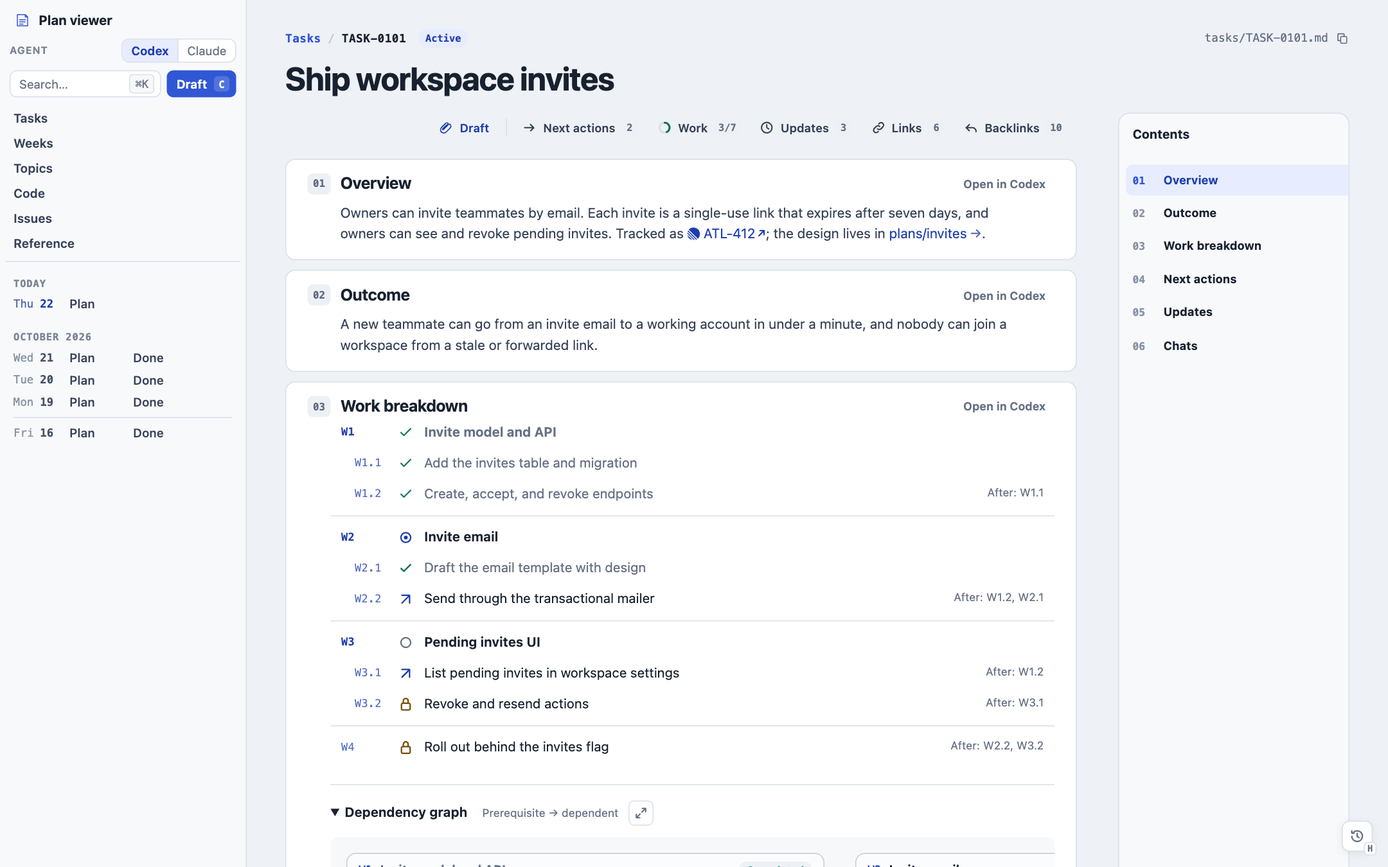
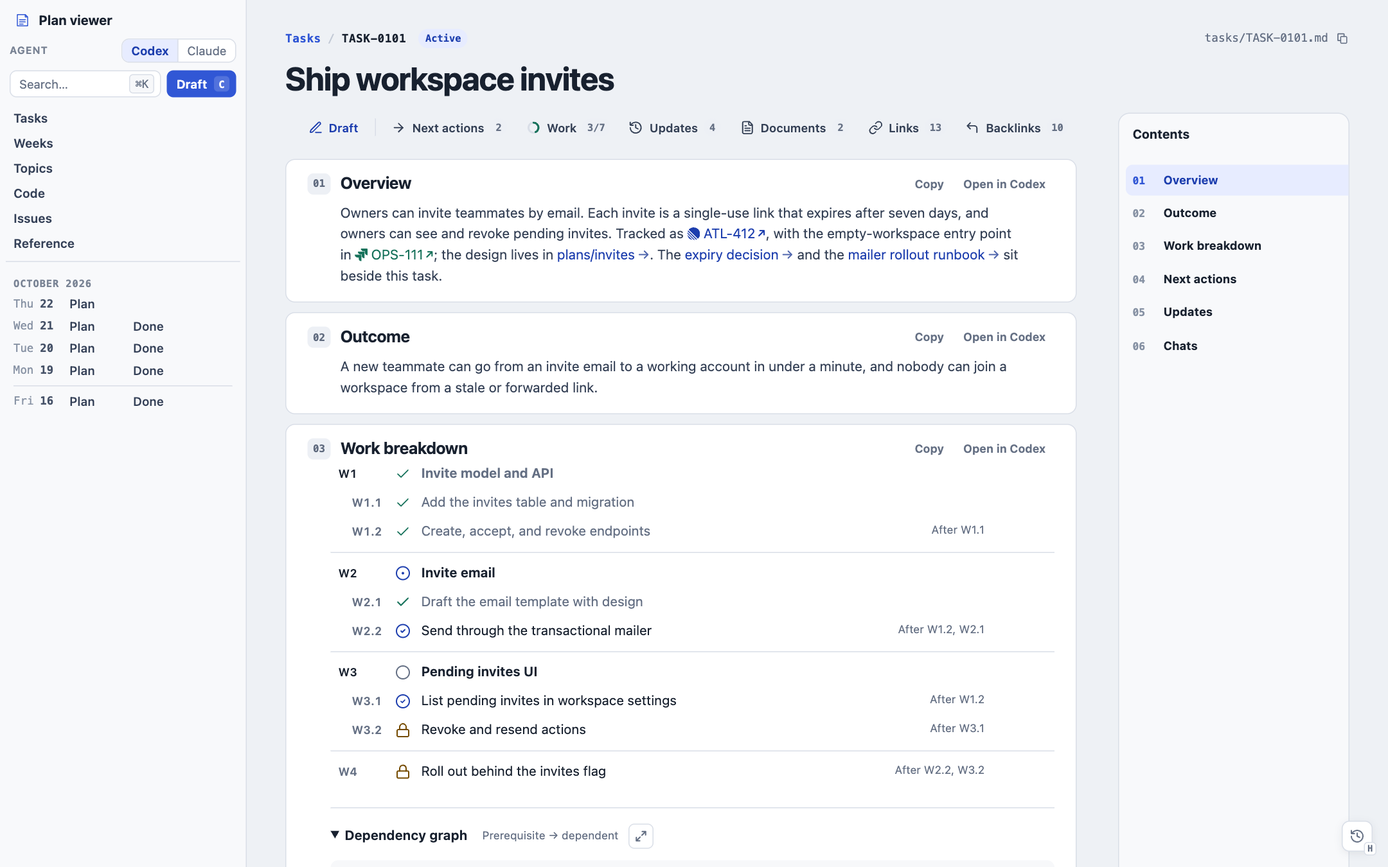
Next actions: one quiet row grammar everywhere; waiting actions still open their draft
Next steps, Next actions, the Tasks inspector and the work tree share one row:
ID, status icon (check ready, lock waiting), title with prompt preview, and a
Draft hint on hover. Blocked actions are no longer disabled: the row and the
draft dialog say what they wait on (After W3.1) and the server no longer
rejects them.

diff --git a/public/styles.css b/public/styles.css
@@ -443,7 +443,6 @@ button.task-list-id:hover { text-decoration: underline; }
 .task-detail-section { margin-top: 16px; padding-top: 12px; border-top: 1px solid var(--line); }
 .task-detail h4 { display: flex; justify-content: space-between; margin: 0 0 8px; color: var(--ink); font-size: .78rem; font-weight: 650; }
 .task-detail h4 span { color: var(--quiet-text); font-weight: 600; font-variant-numeric: tabular-nums; }
-.task-detail .action-card { padding-inline: 8px; margin-inline: -8px; width: calc(100% + 16px); }
 .task-detail-progress { display: grid; gap: 6px; margin: 0 0 6px; color: var(--muted); font-size: .72rem; }
 .task-detail-progress span { height: 4px; border-radius: 999px; background: linear-gradient(90deg, var(--success) calc(var(--done) * 100%), var(--quiet-field) 0); }
 .ref-group + .ref-group { margin-top: 10px; }
@@ -461,14 +460,10 @@ button.task-list-id:hover { text-decoration: underline; }
 .task-detail .ref-chip::after, .task-detail .ref-row::after { content: none; }
 .task-detail-empty { margin: 0; color: var(--muted); font-size: .8rem; }
 /* One quiet style in the detail pane: ink text, muted IDs, blue only on hover and the Open button. */
-.task-detail .action-card { gap: 10px; border: 0; padding-block: 5px; }
-.task-detail .action-card:hover:not(:disabled), .task-detail .action-card[aria-expanded="true"] { background: var(--quiet-field); }
-.task-detail .action-title { gap: 8px; font-size: .8rem; line-height: 1.4; }
-.task-detail .action-title code, .task-detail .ref-row code { color: var(--quiet-text); font-weight: 600; }
+.task-detail .action-card { --label-width: 2.4rem; margin-inline: -8px; width: calc(100% + 16px); }
+.task-detail .action-title { font-size: .8rem; }
 .task-detail .action-note { display: none; }
-.task-detail .action-card:disabled .action-title { color: var(--muted); }
-.task-detail .action-go { font-size: .72rem; }
-.task-detail .action-card:disabled .action-go { color: var(--quiet-text); font-weight: 600; }
+.task-detail .ref-row code { color: var(--quiet-text); font-weight: 600; }
 .task-detail-progress { color: var(--quiet-text); }
 .task-detail-progress span { height: 3px; }
 .task-detail .task-detail-more { margin-top: 6px; color: var(--muted); font-size: .74rem; font-weight: 600; text-decoration: none; }
@@ -661,42 +656,45 @@ button.task-list-id:hover { text-decoration: underline; }
 /* Executable next actions and the compact task map. */
 .action-list { display: grid; }
 .action-row { scroll-margin-top: 64px; }
-.action-card { width: 100%; display: grid; grid-template-columns: minmax(0, 1fr) auto; align-items: center; gap: 18px; margin: 0; border: 1px solid transparent; border-radius: 7px; background: transparent; padding: 6px 10px; color: var(--ink); font: inherit; text-align: left; cursor: pointer; }
-.action-card:hover:not(:disabled), .action-card[aria-expanded="true"] { border-color: var(--action-muted); background: #f8f9ff; }
-.action-card:disabled { cursor: default; }
-.action-text { min-width: 0; display: grid; gap: 4px; }
-.action-title { display: flex; align-items: baseline; gap: 10px; font-size: .86rem; font-weight: 400; line-height: 1.45; overflow-wrap: anywhere; }
-.action-title code, .daily-action-task code, .work-row code, .work-node code, .work-group code { flex: none; color: var(--action-ink); font: 700 .7rem/1.2 ui-monospace, SFMono-Regular, Menlo, monospace; letter-spacing: .02em; }
+/* One row grammar for next actions, the day's next steps and their task headers: label · status icon · text · aside. */
+.action-card, .daily-action-task { --label-width: 3.2rem; display: grid; grid-template-columns: var(--label-width) 18px minmax(0, 1fr) auto; align-items: start; column-gap: 10px; }
+.action-card { width: 100%; margin: 0; border: 0; border-radius: 6px; background: transparent; padding: 5px 8px; color: var(--ink); font: inherit; text-align: left; cursor: pointer; transition: background-color 140ms ease-out; }
+.action-card:hover, .action-card[aria-expanded="true"] { background: var(--quiet-field); }
+.action-label { color: var(--muted); font: 600 .74rem/20px ui-sans-serif, -apple-system, BlinkMacSystemFont, sans-serif; font-variant-numeric: tabular-nums; white-space: nowrap; }
+.action-status { display: grid; place-items: center; height: 20px; color: var(--action-ink); }
+.action-status svg, .action-go svg { width: 15px; height: 15px; fill: none; stroke: currentColor; stroke-width: 2; stroke-linecap: round; stroke-linejoin: round; }
+.action-status.is-waiting { color: var(--status-waiting-ink); }
+.action-text { min-width: 0; display: grid; gap: 1px; }
+.action-title { font-size: .86rem; line-height: 20px; overflow-wrap: anywhere; }
 .action-note { display: -webkit-box; -webkit-line-clamp: 1; -webkit-box-orient: vertical; overflow: hidden; color: var(--muted); font-size: .78rem; line-height: 1.5; }
-.action-note.is-blocked { color: var(--status-waiting-ink); }
-.action-go { flex: none; color: var(--action-ink); font-size: .76rem; font-weight: 680; white-space: nowrap; opacity: 0; transition: opacity 120ms ease-out; }
-.action-card:focus-visible .action-go, .action-card:hover .action-go, .action-card[aria-expanded="true"] .action-go, .work-row.is-actionable:hover .action-go { opacity: 1; }
-.action-card:disabled .action-go { color: var(--muted); opacity: 1; }
-.work-row .action-go { opacity: .6; }
+.action-waiting { color: var(--status-waiting-ink); font-weight: 600; white-space: nowrap; }
+.action-go { display: inline-flex; align-items: center; gap: 4px; height: 20px; color: var(--action-ink); font-size: .74rem; font-weight: 650; white-space: nowrap; opacity: 0; transition: opacity 140ms ease-out; }
+.action-go svg { width: 13px; height: 13px; }
+:is(.action-card, .work-row.is-actionable):is(:hover, :focus-visible, [aria-expanded="true"]) .action-go { opacity: 1; }
 @media (hover: none) { .action-go { opacity: 1; } }
 .action-source { display: block; margin: 6px 0; color: var(--muted); font-size: .76rem; line-height: 1.5; overflow-wrap: anywhere; }
 .action-empty { color: var(--muted); font-size: .9rem; }
-.daily-action-group { margin-top: 8px; }
-.daily-action-group + .daily-action-group { border-top: 1px solid var(--line); padding-top: 8px; }
 .chunk-heading + .daily-action-group, .chunk-heading + .action-list { margin-top: 8px; }
-.daily-action-task { display: flex; align-items: baseline; justify-content: space-between; gap: 12px; margin: 0; padding: 0 10px; color: var(--ink); font-size: .88rem; font-weight: 600; line-height: 1.4; }
-/* Task and work-item labels share one sans, tabular column so titles and notes line up; status shows on the icon only. */
-.daily-action-group { --label-width: 3.4rem; }
-.daily-action-group .action-card { padding-left: calc(9px + 1.056rem); }
-.daily-action-group .action-title { gap: 0; font-size: .82rem; color: var(--body-ink); }
-.daily-action-group .action-note { padding-left: var(--label-width); }
-.daily-action-group .action-title code, .daily-action-group .task-reference-id { display: inline-block; min-width: var(--label-width); margin: 0; color: var(--muted); font: 600 .74rem/1.2 ui-sans-serif, -apple-system, BlinkMacSystemFont, sans-serif; font-variant-numeric: tabular-nums; letter-spacing: 0; }
-.daily-action-group .task-reference-item { display: flex; align-items: baseline; }
-.daily-action-group .task-reference-description { color: var(--ink); }
-.markdown-document-link.daily-action-more { flex: none; color: var(--muted); font-size: .74rem; font-weight: 650; text-decoration: none; }
-.markdown-document-link.daily-action-more:hover { text-decoration: underline; }
+.daily-action-group + .daily-action-group { margin-top: 6px; border-top: 1px solid var(--line); padding-top: 6px; }
+.daily-action-task { margin: 0; padding: 5px 8px 1px; color: var(--ink); font-size: .88rem; font-weight: 600; line-height: 20px; }
+h3.daily-action-task { display: block; }
+/* The task link spans the label, icon and text columns so its number and title line up with the action below. */
+/* grid-auto-rows: 0 parks the word joiner that enhanceTaskReferences puts after the icon. */
+.daily-action-task .task-reference-item { grid-column: 1 / 4; display: grid; grid-template-columns: subgrid; grid-template-rows: auto; grid-auto-rows: 0; align-items: start; font-size: .88rem; }
+.daily-action-task .task-reference-item .service-icon { grid-column: 2; grid-row: 1; justify-self: center; margin-top: 3px; }
+.daily-action-task .task-reference-id { grid-column: 1; grid-row: 1; margin: 0; color: var(--muted); font: 600 .74rem/20px ui-sans-serif, -apple-system, BlinkMacSystemFont, sans-serif; font-variant-numeric: tabular-nums; letter-spacing: 0; }
+.daily-action-task .task-reference-description { grid-column: 3; grid-row: 1; color: var(--ink); }
+.markdown-document-link.daily-action-more { grid-column: 4; color: var(--muted); font-size: .74rem; font-weight: 650; text-decoration: none; white-space: nowrap; }
+.markdown-document-link.daily-action-more::after { content: none; }
+.markdown-document-link.daily-action-more:hover { color: var(--action-ink); }
 .composer[data-scope="action"] .composer-heading h3 { white-space: normal; overflow-wrap: anywhere; }
+.work-row code, .work-node code, .work-group code { flex: none; color: var(--muted); font: 600 .74rem/1.2 ui-sans-serif, -apple-system, BlinkMacSystemFont, sans-serif; font-variant-numeric: tabular-nums; }
 .work-tree { --work-indent: 14px; --work-id-col: calc(34px + var(--work-max-depth, 0) * var(--work-indent)); }
 .work-tree ul { margin: 0; padding: 0; list-style: none; }
 .work-tree > ul > li + li { margin-top: 6px; border-top: 1px solid var(--line); padding-top: 6px; }
-.work-row { width: 100%; display: grid; grid-template-columns: var(--work-id-col) 18px minmax(0, 1fr) minmax(0, auto); align-items: start; column-gap: 10px; margin: 0; border: 1px solid transparent; border-radius: 7px; background: transparent; padding: 5px 10px; color: var(--ink); font: inherit; text-align: left; }
-.work-row > code { line-height: 20px; padding-left: calc(var(--work-depth, 0) * var(--work-indent)); }
-.work-row:not(.is-parent) > code { font-weight: 500; opacity: .75; }
+.work-row { width: 100%; display: grid; grid-template-columns: var(--work-id-col) 18px minmax(0, 1fr) minmax(0, auto) 3.4rem; align-items: start; column-gap: 10px; margin: 0; border: 0; border-radius: 6px; background: transparent; padding: 5px 8px; color: var(--ink); font: inherit; text-align: left; }
+.work-row > code { line-height: 20px; white-space: nowrap; padding-left: calc(var(--work-depth, 0) * var(--work-indent)); }
+.work-row.is-parent > code { color: var(--ink); }
 .work-row.is-completed .work-title { color: var(--muted); }
 .work-status-icon { display: grid; place-items: center; width: 18px; height: 20px; color: var(--muted); }
 .work-status-icon svg { width: 16px; height: 16px; fill: none; stroke: currentColor; stroke-width: 2; stroke-linecap: round; stroke-linejoin: round; }
@@ -704,8 +702,9 @@ button.task-list-id:hover { text-decoration: underline; }
 .work-status-icon.is-blocked, .work-status-icon.is-waiting { color: var(--status-waiting-ink); }
 .work-status-icon.is-completed { color: var(--success); }
 .work-row.is-parent { font-weight: 650; }
-.work-row.is-actionable { cursor: pointer; }
-.work-row.is-actionable:hover, .work-row.is-actionable[aria-expanded="true"] { border-color: var(--action-muted); background: #f8f9ff; }
+.work-row.is-actionable { cursor: pointer; transition: background-color 140ms ease-out; }
+.work-row .action-go { justify-self: end; }
+.work-row.is-actionable:hover, .work-row.is-actionable[aria-expanded="true"] { background: var(--quiet-field); }
 .work-title { min-width: 0; font-size: .86rem; line-height: 1.45; overflow-wrap: anywhere; }
 .work-dependencies { max-width: 180px; justify-self: end; color: var(--muted); font-size: .72rem; font-weight: 400; line-height: 1.45; text-align: right; overflow-wrap: anywhere; }
 .work-status { justify-self: end; border-radius: 999px; background: var(--quiet-field); padding: 2px 8px; color: var(--muted); font-size: .68rem; font-weight: 650; white-space: nowrap; }
@@ -741,12 +740,14 @@ button.task-list-id:hover { text-decoration: underline; }
 .work-group.is-completed { color: var(--muted); }
 .work-node > span { display: flex; align-items: center; justify-content: space-between; gap: 8px; margin-bottom: 7px; }
 .work-node strong { display: -webkit-box; -webkit-line-clamp: 2; -webkit-box-orient: vertical; overflow: hidden; font-size: .8rem; line-height: 1.4; }
-.work-node.is-ready { cursor: pointer; background: var(--selected); border-color: var(--action-muted); }
-.work-node.is-ready:hover { border-color: var(--action); }
+.work-node.is-actionable { cursor: pointer; transition: border-color 140ms ease-out; }
+.work-node.is-ready { background: var(--selected); border-color: var(--action-muted); }
+.work-node.is-actionable:hover { border-color: var(--action); }
 .work-node.is-completed { background: var(--quiet-field); color: var(--muted); }
 .action-card:focus-visible, .work-row:focus-visible, .work-node:focus-visible, .work-graph-scroll:focus-visible, .work-graph-disclosure > summary:focus-visible, .daily-action-group a:focus-visible { outline: 3px solid rgba(49, 87, 213, .26); outline-offset: 2px; }
 @media (max-width: 600px) {
-  .action-card { grid-template-columns: minmax(0, 1fr); gap: 8px; }
+  .action-go { display: none; }
+  .work-row { grid-template-columns: var(--work-id-col) 18px minmax(0, 1fr) minmax(0, auto); }
   .work-tree { --work-indent: 10px; }
   .work-dependencies { max-width: 76px; }
   .work-graph-disclosure > summary span { display: block; margin: 6px 0 0; }

diff --git a/public/actions.js b/public/actions.js
@@ -101,10 +101,15 @@ function actionPreview(action) {
   return text.startsWith(action.title.replace(/\s+/g, ' ').trim()) ? '' : text;
 }
 
+const icon = glyph => `<svg viewBox="0 0 24 24" aria-hidden="true">${GLYPHS[glyph]}</svg>`;
+
+// Every action opens its draft, including waiting ones: the lock and "After …" only advise.
 function actionRow(action, index, key) {
   const preview = actionPreview(action);
-  const note = action.blocked ? action.blockedReason || 'Blocked — resolve the work item dependencies first' : preview;
-  return `<div class="action-row" id="${escapeHtml(markdownHeadingId(action.title))}"><button class="action-card" type="button" data-action-key="${escapeHtml(key)}" data-action-index="${index}" aria-label="Prepare action: ${escapeHtml(action.title)}" aria-haspopup="dialog" aria-controls="handoff-popover" aria-expanded="false" ${action.blocked ? 'disabled' : ''}><span class="action-text"><span class="action-title">${action.workItem ? `<code>${escapeHtml(action.workItem)}</code>` : ''}${escapeHtml(action.title)}</span>${note ? `<span class="action-note${action.blocked ? ' is-blocked' : ''}">${escapeHtml(note)}</span>` : ''}</span><span class="action-go">${action.blocked ? 'Blocked' : 'Prepare <span aria-hidden="true">↗</span>'}</span></button></div>`;
+  const waiting = action.blocked ? `<span class="action-waiting">${escapeHtml(action.blockedReason || 'Waiting on prerequisites')}</span>` : '';
+  const note = waiting || preview ? `<span class="action-note">${waiting}${waiting && preview ? ' · ' : ''}${escapeHtml(preview)}</span>` : '';
+  const status = action.blocked ? 'Waiting' : 'Ready';
+  return `<div class="action-row" id="${escapeHtml(markdownHeadingId(action.title))}"><button class="action-card${action.blocked ? ' is-waiting' : ''}" type="button" data-action-key="${escapeHtml(key)}" data-action-index="${index}" aria-label="Draft action: ${escapeHtml(action.title)}${action.blocked ? ` (${escapeHtml(action.blockedReason || 'waiting')})` : ''}" aria-haspopup="dialog" aria-controls="handoff-popover" aria-expanded="false"><span class="action-label">${escapeHtml(action.workItem)}</span><span class="action-status is-${status.toLowerCase()}">${icon(action.blocked ? 'lock' : 'circle-check')}</span><span class="action-text"><span class="action-title">${escapeHtml(action.title)}</span>${note}</span><span class="action-go">${icon('pen-line')}Draft</span></button></div>`;
 }
 
 export function renderActions(actions, key) {
@@ -131,21 +136,21 @@ export function renderActions(actions, key) {
 
 export function renderWorkBreakdown(work, actions, key, repairChunkId = '') {
   const { nodes, warnings } = work;
-  const diagnostics = warnings.length ? `<section class="work-validation" aria-label="Work breakdown needs repair"><strong>Work breakdown needs repair</strong><p>Actions are paused until these issues are fixed in the task Markdown.</p><ul>${warnings.map(w => `<li class="work-warning">${escapeHtml(w)}</li>`).join('')}</ul>${repairChunkId ? `<button type="button" class="handoff-button" data-chunk-id="${escapeHtml(repairChunkId)}" data-repair-work aria-haspopup="dialog" aria-controls="handoff-popover" aria-expanded="false">Prepare fix ↗</button>` : ''}</section>` : '';
+  const diagnostics = warnings.length ? `<section class="work-validation" aria-label="Work breakdown needs repair"><strong>Work breakdown needs repair</strong><p>Readiness may be wrong until these issues are fixed in the task Markdown.</p><ul>${warnings.map(w => `<li class="work-warning">${escapeHtml(w)}</li>`).join('')}</ul>${repairChunkId ? `<button type="button" class="handoff-button" data-chunk-id="${escapeHtml(repairChunkId)}" data-repair-work aria-haspopup="dialog" aria-controls="handoff-popover" aria-expanded="false">Prepare fix ↗</button>` : ''}</section>` : '';
   if (!nodes.length) return `${diagnostics}${warnings.length ? '' : '<p class="action-empty">Add nested work items to this task to see its tree and dependencies.</p>'}`;
   const hasChildren = n => nodes.some(child => child.parent === n.id);
   const statusLabel = n => n.ready && !hasChildren(n) ? 'Ready' : ['open', 'active'].includes(n.status) && !n.ready && !hasChildren(n) ? 'Blocked' : n.status[0].toUpperCase() + n.status.slice(1);
-  const actionIndex = n => { const i = actions.findIndex(a => a.workItem === n.id); return i >= 0 && n.ready && !actions[i].blocked ? i : -1; };
+  const actionIndex = n => actions.findIndex(a => a.workItem === n.id);
   const actionAttrs = i => `data-action-key="${escapeHtml(key)}" data-action-index="${i}" aria-haspopup="dialog" aria-controls="handoff-popover"`;
   const statusClass = n => `is-${statusLabel(n).toLowerCase()}`;
   const statusIcons = {
-    Open: GLYPHS.circle,
-    Active: GLYPHS["circle-dot"],
-    Ready: GLYPHS["circle-check"],
-    Blocked: GLYPHS.lock,
-    Waiting: GLYPHS.clock,
-    Deferred: GLYPHS.pause,
-    Completed: GLYPHS.check,
+    Open: 'circle',
+    Active: 'circle-dot',
+    Ready: 'circle-check',
+    Blocked: 'lock',
+    Waiting: 'clock',
+    Deferred: 'pause',
+    Completed: 'check',
   };
   const depthOf = n => { let d = 0; for (let p = n.parent; p; p = nodes.find(x => x.id === p)?.parent) d++; return d; };
   const maxDepth = Math.max(0, ...nodes.map(depthOf));
@@ -153,10 +158,9 @@ export function renderWorkBreakdown(work, actions, key, repairChunkId = '') {
     return `<ul style="--work-depth:${depth}">${nodes.filter(n => n.parent === parent).map(n => {
       const i = actionIndex(n);
       const label = statusLabel(n);
-      const status = `${label}${i >= 0 ? ' — Prepare action' : ''}`;
-      const icon = i >= 0 ? GLYPHS["arrow-up-right"] : statusIcons[label];
-      const body = `<code>${escapeHtml(n.id)}</code><span class="work-status-icon ${statusClass(n)}" title="${escapeHtml(status)}"><svg viewBox="0 0 24 24" aria-hidden="true">${icon}</svg><span class="sr-only">${escapeHtml(status)}</span></span><span class="work-title">${escapeHtml(n.title)}</span><small class="work-dependencies">${n.deps.length ? `After: ${n.deps.map(escapeHtml).join(', ')}` : ''}</small>`;
-      return `<li${isDone(n) ? ' class="is-done"' : ''}>${i >= 0 ? `<button type="button" class="work-row is-actionable" style="--work-depth:${depth}" ${actionAttrs(i)}>${body}</button>` : `<div class="work-row${hasChildren(n) ? ' is-parent' : ''}${n.status === 'completed' ? ' is-completed' : ''}" style="--work-depth:${depth}">${body}</div>`}${hasChildren(n) ? tree(n.id, depth + 1) : ''}</li>`;
+      const status = `${label}${i >= 0 ? ' — Draft action' : ''}`;
+      const body = `<code>${escapeHtml(n.id)}</code><span class="work-status-icon ${statusClass(n)}" title="${escapeHtml(status)}">${icon(statusIcons[label])}<span class="sr-only">${escapeHtml(status)}</span></span><span class="work-title">${escapeHtml(n.title)}</span><small class="work-dependencies">${n.deps.length ? `After ${n.deps.map(escapeHtml).join(', ')}` : ''}</small>${i >= 0 ? `<span class="action-go">${icon('pen-line')}Draft</span>` : ''}`;
+      return `<li${isDone(n) ? ' class="is-done"' : ''}>${i >= 0 ? `<button type="button" class="work-row is-actionable${n.ready ? '' : ' is-waiting'}" style="--work-depth:${depth}" ${actionAttrs(i)}>${body}</button>` : `<div class="work-row${hasChildren(n) ? ' is-parent' : ''}${n.status === 'completed' ? ' is-completed' : ''}" style="--work-depth:${depth}">${body}</div>`}${hasChildren(n) ? tree(n.id, depth + 1) : ''}</li>`;
     }).join('')}</ul>`;
   }
   // Dependency chains with nothing ready or blocked (all completed or deferred) are clutter: hide them from the list and graph by default; the "show completed or deferred" toggle brings them back.
@@ -218,7 +222,7 @@ export function renderWorkBreakdown(work, actions, key, repairChunkId = '') {
       const head = `<span><code>${escapeHtml(n.id)}</code><small class="work-status ${statusClass(n)}">${escapeHtml(statusLabel(n))}</small></span><strong>${escapeHtml(n.title)}</strong>`;
       const completed = n.status === 'completed' ? ' is-completed' : '';
       if (kids(n.id).length) return `<div class="work-group${completed}" style="${style}" title="${escapeHtml(n.title)}"><header><code>${escapeHtml(n.id)}</code><strong>${escapeHtml(n.title)}</strong><small class="work-status ${statusClass(n)}">${escapeHtml(statusLabel(n))}</small></header></div>`;
-      return index >= 0 ? `<button type="button" class="work-node is-ready" style="${style}" title="${escapeHtml(n.title)}" ${actionAttrs(index)}>${head}</button>` : `<div class="work-node${completed}" style="${style}" title="${escapeHtml(n.title)}">${head}</div>`;
+      return index >= 0 ? `<button type="button" class="work-node is-actionable${n.ready ? ' is-ready' : ''}${completed}" style="${style}" title="${escapeHtml(n.title)}" ${actionAttrs(index)}>${head}</button>` : `<div class="work-node${completed}" style="${style}" title="${escapeHtml(n.title)}">${head}</div>`;
     }).join('');
     return `<div class="work-graph is-${variant}" style="width:${width}px;height:${height}px"><svg width="${width}" height="${height}" aria-hidden="true"><defs><marker id="${marker}" markerWidth="8" markerHeight="8" refX="7" refY="4" orient="auto"><path d="M0,0 L8,4 L0,8"/></marker></defs>${edges}</svg>${boxes}</div>`;
   }

diff --git a/server.test.ts b/server.test.ts
@@ -537,7 +537,7 @@ test("work breakdown diagnostics explain unsupported statuses and how to repair 
   assert.match(work.warnings[1], /W2 depends on W1, which could not be parsed/);
   assert.equal(work.nodes[0].ready, false);
   const html = renderWorkBreakdown(work, [], 'actions', 'work-breakdown');
-  assert.match(html, /Actions are paused/);
+  assert.match(html, /Readiness may be wrong/);
   assert.match(html, /data-chunk-id="work-breakdown" data-repair-work/);
   const repaired = parseWorkBreakdown(source.replace('[done]', '[completed]'));
   assert.deepEqual(repaired.warnings, []);
@@ -574,7 +574,7 @@ test("action rendering escapes titles, prompts and graph labels", async () => {
   const { renderActions, renderWorkBreakdown, parseWorkBreakdown } = await import('./public/actions.js');
   const html = renderActions([{ title: '<script>bad</script>', prompt: '<img src=x onerror=bad>', sourcePath: 'tasks/TASK-0001.md' }], 'next');
   assert.doesNotMatch(html, /<script>|<img/);
-  assert.match(html, /Prepare action/);
+  assert.match(html, /Draft action/);
   const graph = renderWorkBreakdown(parseWorkBreakdown('- W1: <script>bad</script> [open]'), [], 'work');
   assert.doesNotMatch(graph, /<script>/);
 });
@@ -597,8 +597,20 @@ test("milestone documents retain actionable and scope sections", () => {
 test("renders readable prerequisites alongside the graph arrows", async () => {
   const { renderWorkBreakdown, parseWorkBreakdown } = await import('./public/actions.js');
   const html = renderWorkBreakdown(parseWorkBreakdown('- W1: Evidence [open]\n- W2: Fix [open] (after: W1)'), [], 'work');
-  assert.match(html, /After: W1/);
+  assert.match(html, /After W1/);
   assert.match(html, /Blocked/);
+});
+
+test("a waiting action stays openable and says what it waits on", async () => {
+  const { renderActions, renderWorkBreakdown, parseWorkBreakdown } = await import('./public/actions.js');
+  const action = { title: 'Fix it', prompt: 'Apply the fix.', sourcePath: 'tasks/TASK-0001.md', workItem: 'W2', blocked: true, blockedReason: 'After W1' };
+  const list = renderActions([action], 'next');
+  assert.doesNotMatch(list, /disabled/);
+  assert.match(list, /class="action-card is-waiting"[^>]*data-action-index="0"/);
+  assert.match(list, /After W1<\/span> · Apply the fix\./);
+  const tree = renderWorkBreakdown(parseWorkBreakdown('- W1: Evidence [open]\n- W2: Fix [open] (after: W1)'), [action], 'next');
+  assert.match(tree, /class="work-row is-actionable is-waiting"[^>]*data-action-index="0"/);
+  assert.match(tree, /class="work-node is-actionable"[^>]*data-action-index="0"/);
 });
 
 test("setTaskStatus rewrites only status and updated front matter", async () => {
@@ -676,6 +688,7 @@ test("Slack permalinks become desktop deep links that land on the message and it
 test("an active task with only blocked actions explains what it is waiting on", async () => {
   const task = await loadDocument("tasks/TASK-0002.md");
   assert.ok(task.nextActions.every(action => action.blocked));
+  assert.equal(task.nextActions[0].blockedReason, "After W1");
   assert.match(task.actionWarnings.join(" "), /no ready next action: “Compare released versions” \(W2 is open, after W1\)/);
   assert.deepEqual((await loadDocument("tasks/TASK-0015.md")).actionWarnings, []);
 });

diff --git a/server.ts b/server.ts
@@ -435,7 +435,14 @@ export async function loadDocument(requested: string) {
     const node = work.nodes.find(node => node.id === action.workItem);
     const unavailable = ["completed", "deferred", "waiting"].includes(summary.task?.status || "");
     action.blocked = unavailable || Boolean(action.workItem && (!node || !node.ready));
-    action.blockedReason = unavailable ? `Task is ${summary.task?.status}. Update its state before starting work.` : action.blocked ? "Work item is unavailable. Check its status and prerequisites below." : "";
+    // Advisory only: a waiting action still opens its draft, and the reason says what it is waiting on.
+    const waitingOn = node?.deps.filter(id => work.nodes.find(dep => dep.id === id)?.status !== "completed") || [];
+    action.blockedReason = !action.blocked ? ""
+      : unavailable ? `Task is ${summary.task?.status}`
+      : !node ? `${action.workItem} is not in the work breakdown`
+      : work.warnings.length ? "Work breakdown needs repair"
+      : waitingOn.length ? `After ${waitingOn.join(", ")}`
+      : `${node.id} is ${node.status}`;
   }
   const scheduledActions = [];
   const actionWarnings: string[] = [];
@@ -501,7 +508,6 @@ async function dispatchToCodex(path: string, scope: string, chunkId: string, com
     const document = await loadDocument(path);
     const action = document.nextActions.find(action => action.id === actionId);
     if (!action || action.prompt !== expectedPrompt) throw new Error("This action changed. Reload the task and prepare it again.");
-    if (action.blocked || ["completed", "deferred", "waiting"].includes(document.task?.status || "")) throw new Error("This action is blocked or the task is no longer available to start. Reload the task.");
     if (commentary.length > MAX_COMMENT_LENGTH) throw new Error("Additional context is too long.");
     const prompt = buildActionPrompt(document, action, commentary);
     dispatchLog(requestId, "validated", { scope, path, actionId });

diff --git a/public/app.js b/public/app.js
@@ -551,7 +551,7 @@ function composerTemplate(target) {
   const heading = (meta) => `<header class="composer-heading"><div><h3>${escapeHtml(target.title)}</h3>${meta ? `<p class="composer-meta">${meta}</p>` : ""}</div>${close}</header>`;
   if (target.scope === "action") {
     const { action } = target;
-    const meta = `<span title="${escapeHtml(action.sourcePath)}">${escapeHtml(action.sourcePath.split("/").pop())}</span>${action.workItem ? ` · ${escapeHtml(action.workItem)}` : ""}`;
+    const meta = `<span title="${escapeHtml(action.sourcePath)}">${escapeHtml(action.sourcePath.split("/").pop())}</span>${action.workItem ? ` · ${escapeHtml(action.workItem)}` : ""}${action.blocked ? ` · <span class="action-waiting">${escapeHtml(action.blockedReason || "Waiting on prerequisites")}</span>` : ""}`;
     return `<form class="composer" data-composer-key="${escapeHtml(target.key)}" data-scope="action" data-source-path="${escapeHtml(action.sourcePath)}" data-action-id="${escapeHtml(action.id)}" data-expected-prompt="${escapeHtml(action.prompt)}">
       ${heading(meta)}
       <div class="composer-body">
@@ -1884,7 +1884,6 @@ function openCursorComposer() {
   const action = hovered?.closest("[data-action-key]")
     || hovered?.closest(".action-row")?.querySelector("[data-action-key]");
   if (action) {
-    if (action.disabled) { showNotice("This action is blocked. Resolve its prerequisites first."); return; }
     action.click();
     return;
   }

diff --git a/docs/guide.md b/docs/guide.md
@@ -52,9 +52,9 @@ Issues come from `acli`: a search lists the scope's keys, each issue is read wit
 
 Each task's `## Next actions` contains short action headings and fenced `prompt` blocks. Write each prompt so an agent can advance one bounded step with the supplied repository context and a clear result to verify. An optional `Work item: W1.1` links it to the task's work breakdown. The viewer also gives existing bullet actions individual buttons.
 
-Click **Prepare action**, review the prompt, add optional context, and click **Open in Codex** (or Claude, per the agent picker). The viewer uses the existing desktop handoff with a prepared, editable draft; review it and click Send there. The action prompt and absolute source file path are included. Additional context is optional; when given, it appears above the stored prompt and takes precedence where they differ. The server rechecks the source action and its readiness before opening the draft, rejecting changed or blocked actions. This local handoff expects an agent with access to the planning workspace.
+Each action is one row: its work item, a status icon (a check when ready, a lock when it waits on prerequisites), the title, and the first line of its prompt. Click a row (its **Draft** hint shows on hover) to review the full prompt, add optional context, and click **Open in Codex** (or Claude, per the agent picker). Waiting actions open the same way: the row and the dialog say what they wait on (`After W1.2`), but nothing stops you, so you can tell the agent the prerequisite is done or that the action is still good context. The viewer uses the existing desktop handoff with a prepared, editable draft; review it and click Send there. The action prompt and absolute source file path are included. Additional context is optional; when given, it appears above the stored prompt and takes precedence where they differ. The server rechecks that the stored action hasn't changed before opening the draft. This local handoff expects an agent with access to the planning workspace.
 
-Daily plans show **Next steps** from tasks linked under **Scheduled tasks**, with one available action per task and its remaining actions under a disclosure. Completed, waiting, and deferred tasks are omitted. A plan can also contain its own `## Next steps` action prompts for day-specific work. Task actions stay in their task files.
+Daily plans show **Next steps** from tasks linked under **Scheduled tasks**, with one row per task (its number and title, linking to the task) above its first ready action, or its first action when none is ready; **+N more** opens the task's full list. Completed, waiting, and deferred tasks are omitted. A plan can also contain its own `## Next steps` action prompts for day-specific work. Task actions stay in their task files.
 
 Use `## Work breakdown` to record the full known scope as nested bullets:
 
@@ -65,7 +65,7 @@ Use `## Work breakdown` to record the full known scope as nested bullets:
   - W1.3: Verify the result [open] (after: W1.2)
 ```
 
-IDs are unique within the task. Statuses are `open`, `active`, `waiting`, `deferred`, and `completed`. Nesting describes the scope; `after` describes prerequisites. The viewer shows the hierarchy and a scrollable graph with arrows from prerequisite to dependent. Ready graph nodes with a linked action open the same context dialog. Missing dependencies, duplicate IDs, and cycles produce warnings; actions linked to unresolved dependencies cannot start.
+IDs are unique within the task. Statuses are `open`, `active`, `waiting`, `deferred`, and `completed`. Nesting describes the scope; `after` describes prerequisites. The viewer shows the hierarchy and a scrollable graph with arrows from prerequisite to dependent. Any tree row or graph node with a linked action opens the same draft dialog, ready or not. Missing dependencies, duplicate IDs, and cycles produce warnings; readiness may be wrong until they are fixed, but actions still open.
 
 Run `npm run lint -- tasks/TASK-0001.md` after authoring or updating a planning document, or `npm run lint` to check the full authored corpus. It rejects invalid task front matter, work-breakdown warnings and action references to missing work items using the viewer's parsers. Point the workspace at the shipped pre-commit hook (see Quick start). The hook validates the staged contents of changed planning Markdown files, so a corrected working copy cannot hide an invalid staged version. Valid work that is waiting on prerequisites passes lint.
 

diff --git a/examples/workspace/tasks/TASK-0101.md b/examples/workspace/tasks/TASK-0101.md
@@ -48,6 +48,14 @@ Work item: W3.1
 Add a "Pending invites" table to workspace settings that lists each open invite with its email, inviter, and expiry. Follow the existing members table for layout and empty state.
 ```
 
+### Add revoke and resend to pending invites
+
+Work item: W3.2
+
+```prompt
+On each pending invite row, add Revoke and Resend actions that call the existing endpoints, confirm before revoking, and show the new expiry after a resend. Cover both in the settings page tests.
+```
+
 ## Updates
 
 - 2026-10-21: Endpoints merged in atlas#1842. Mailer wiring is in review as atlas#1857. [Mailer review ask](https://acme.slack.com/archives/C0ACME0001/p1792589400000100) in the team channel.
